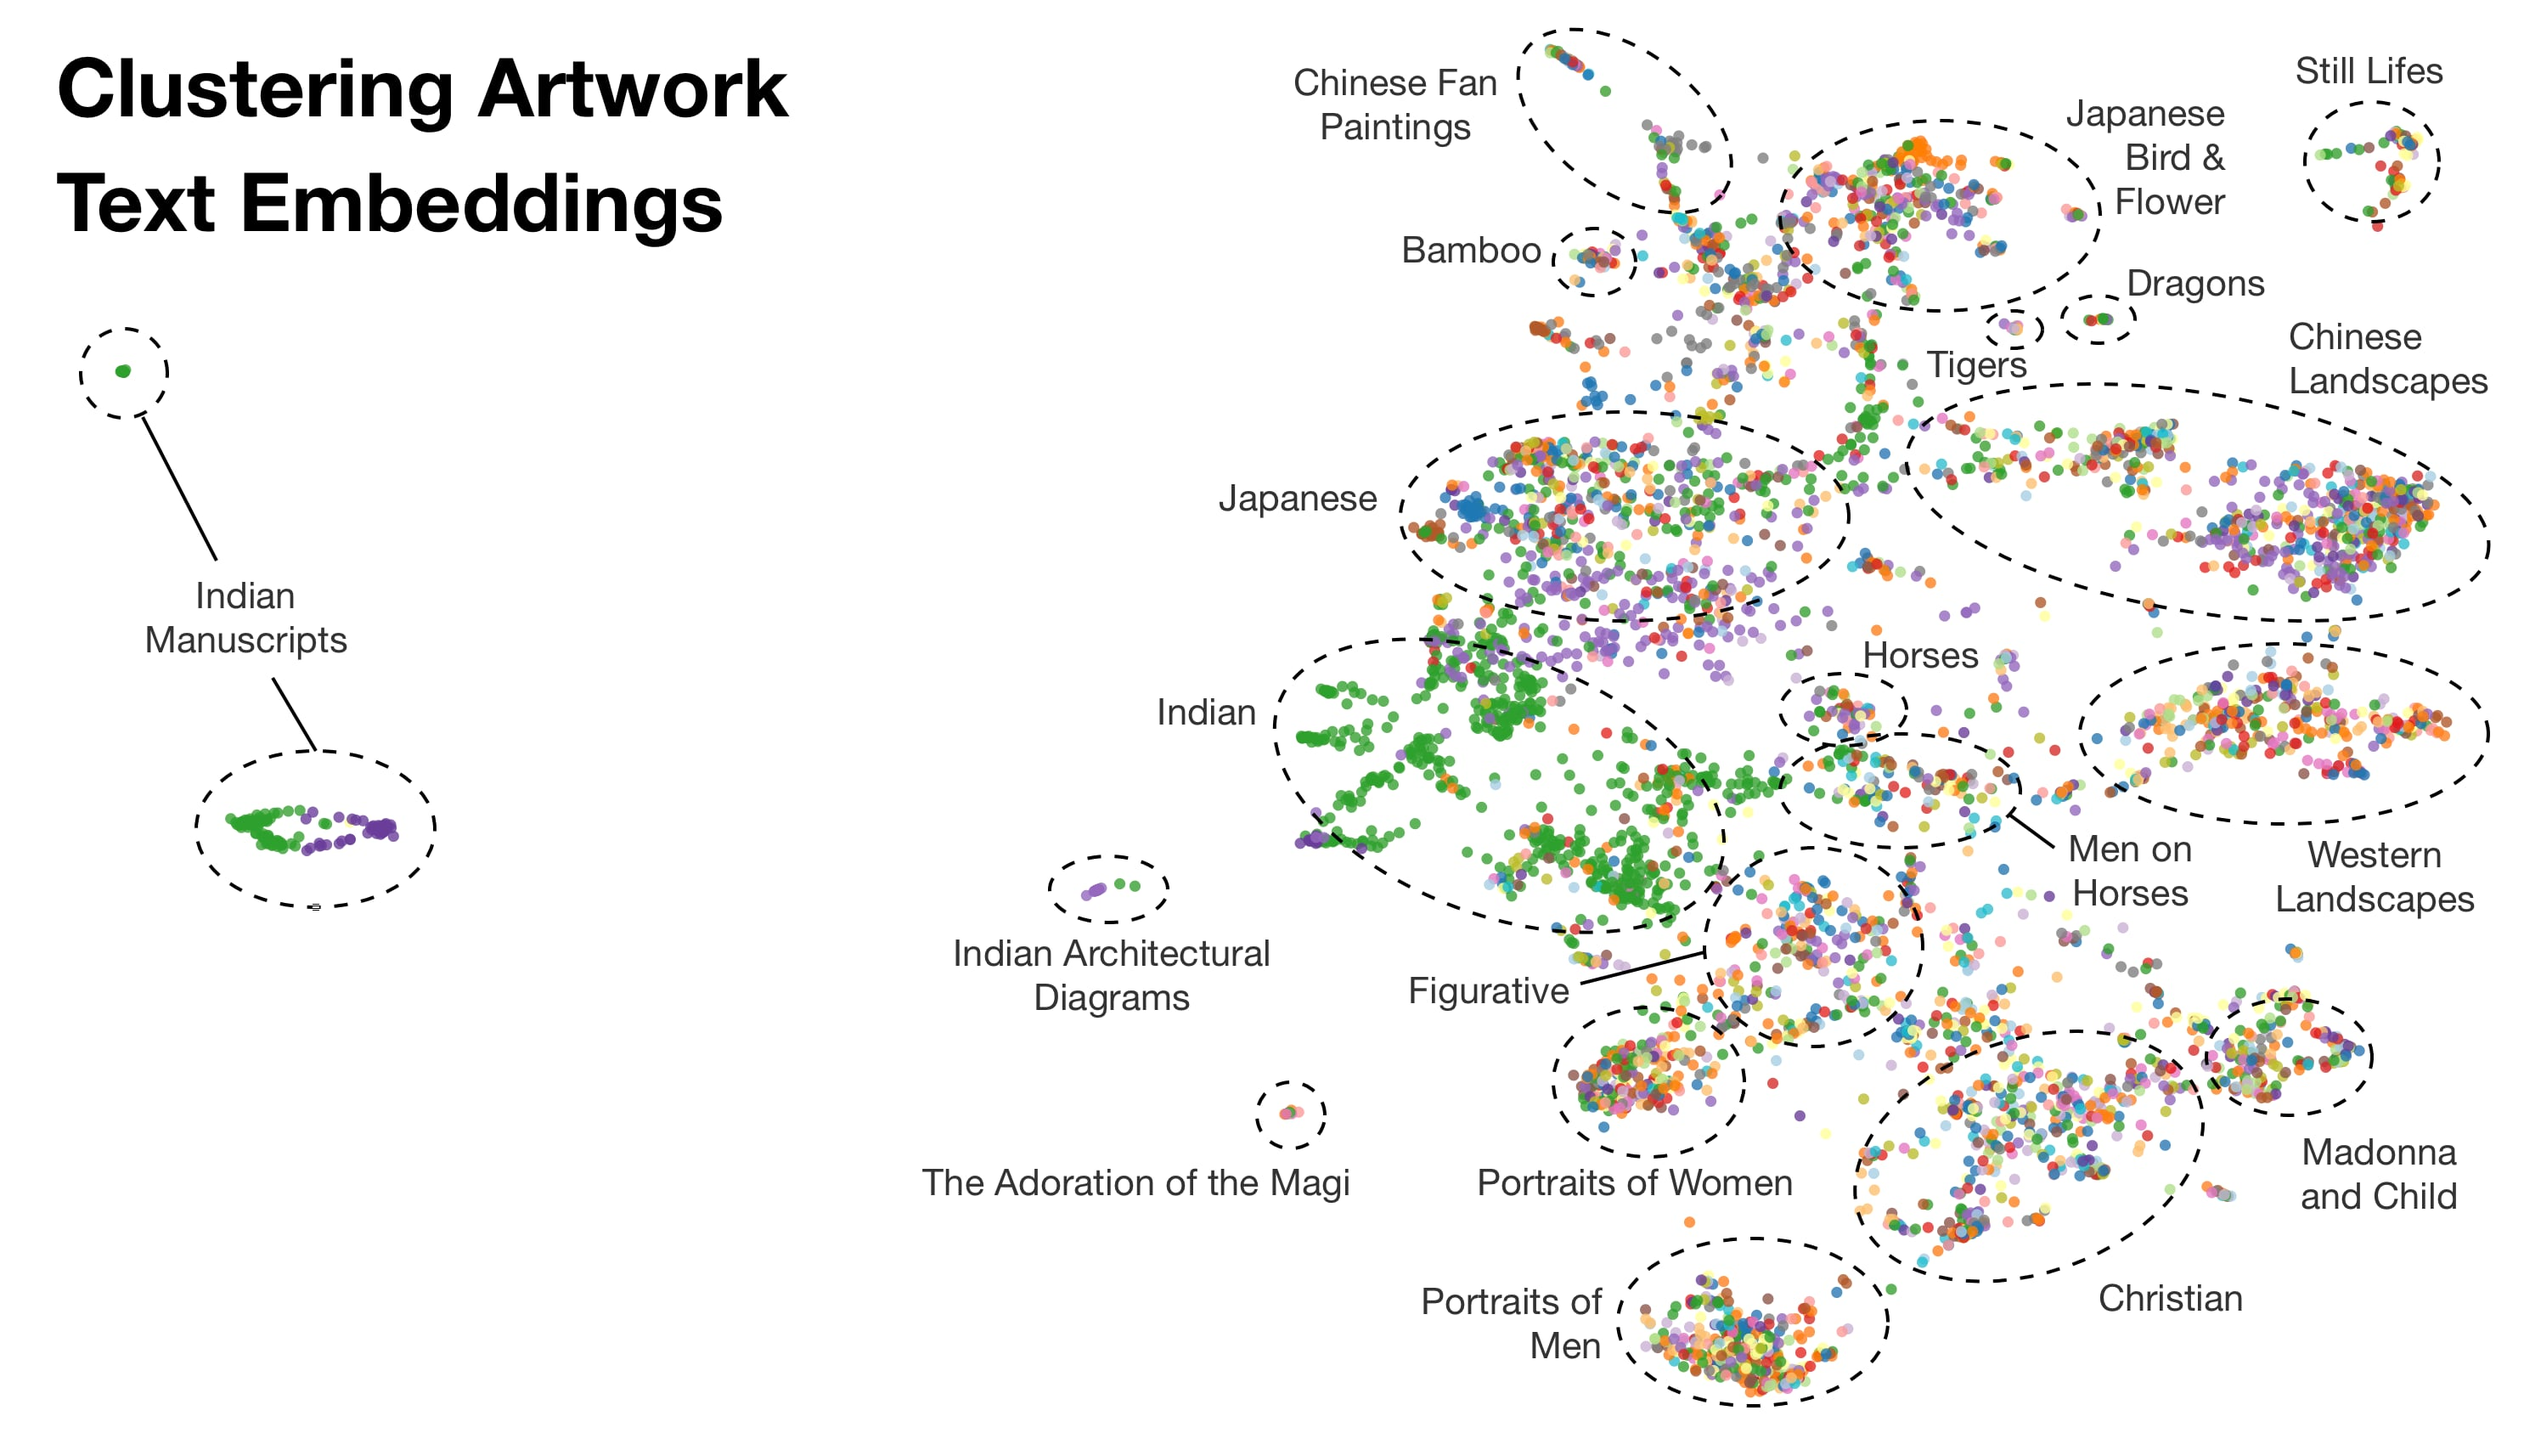
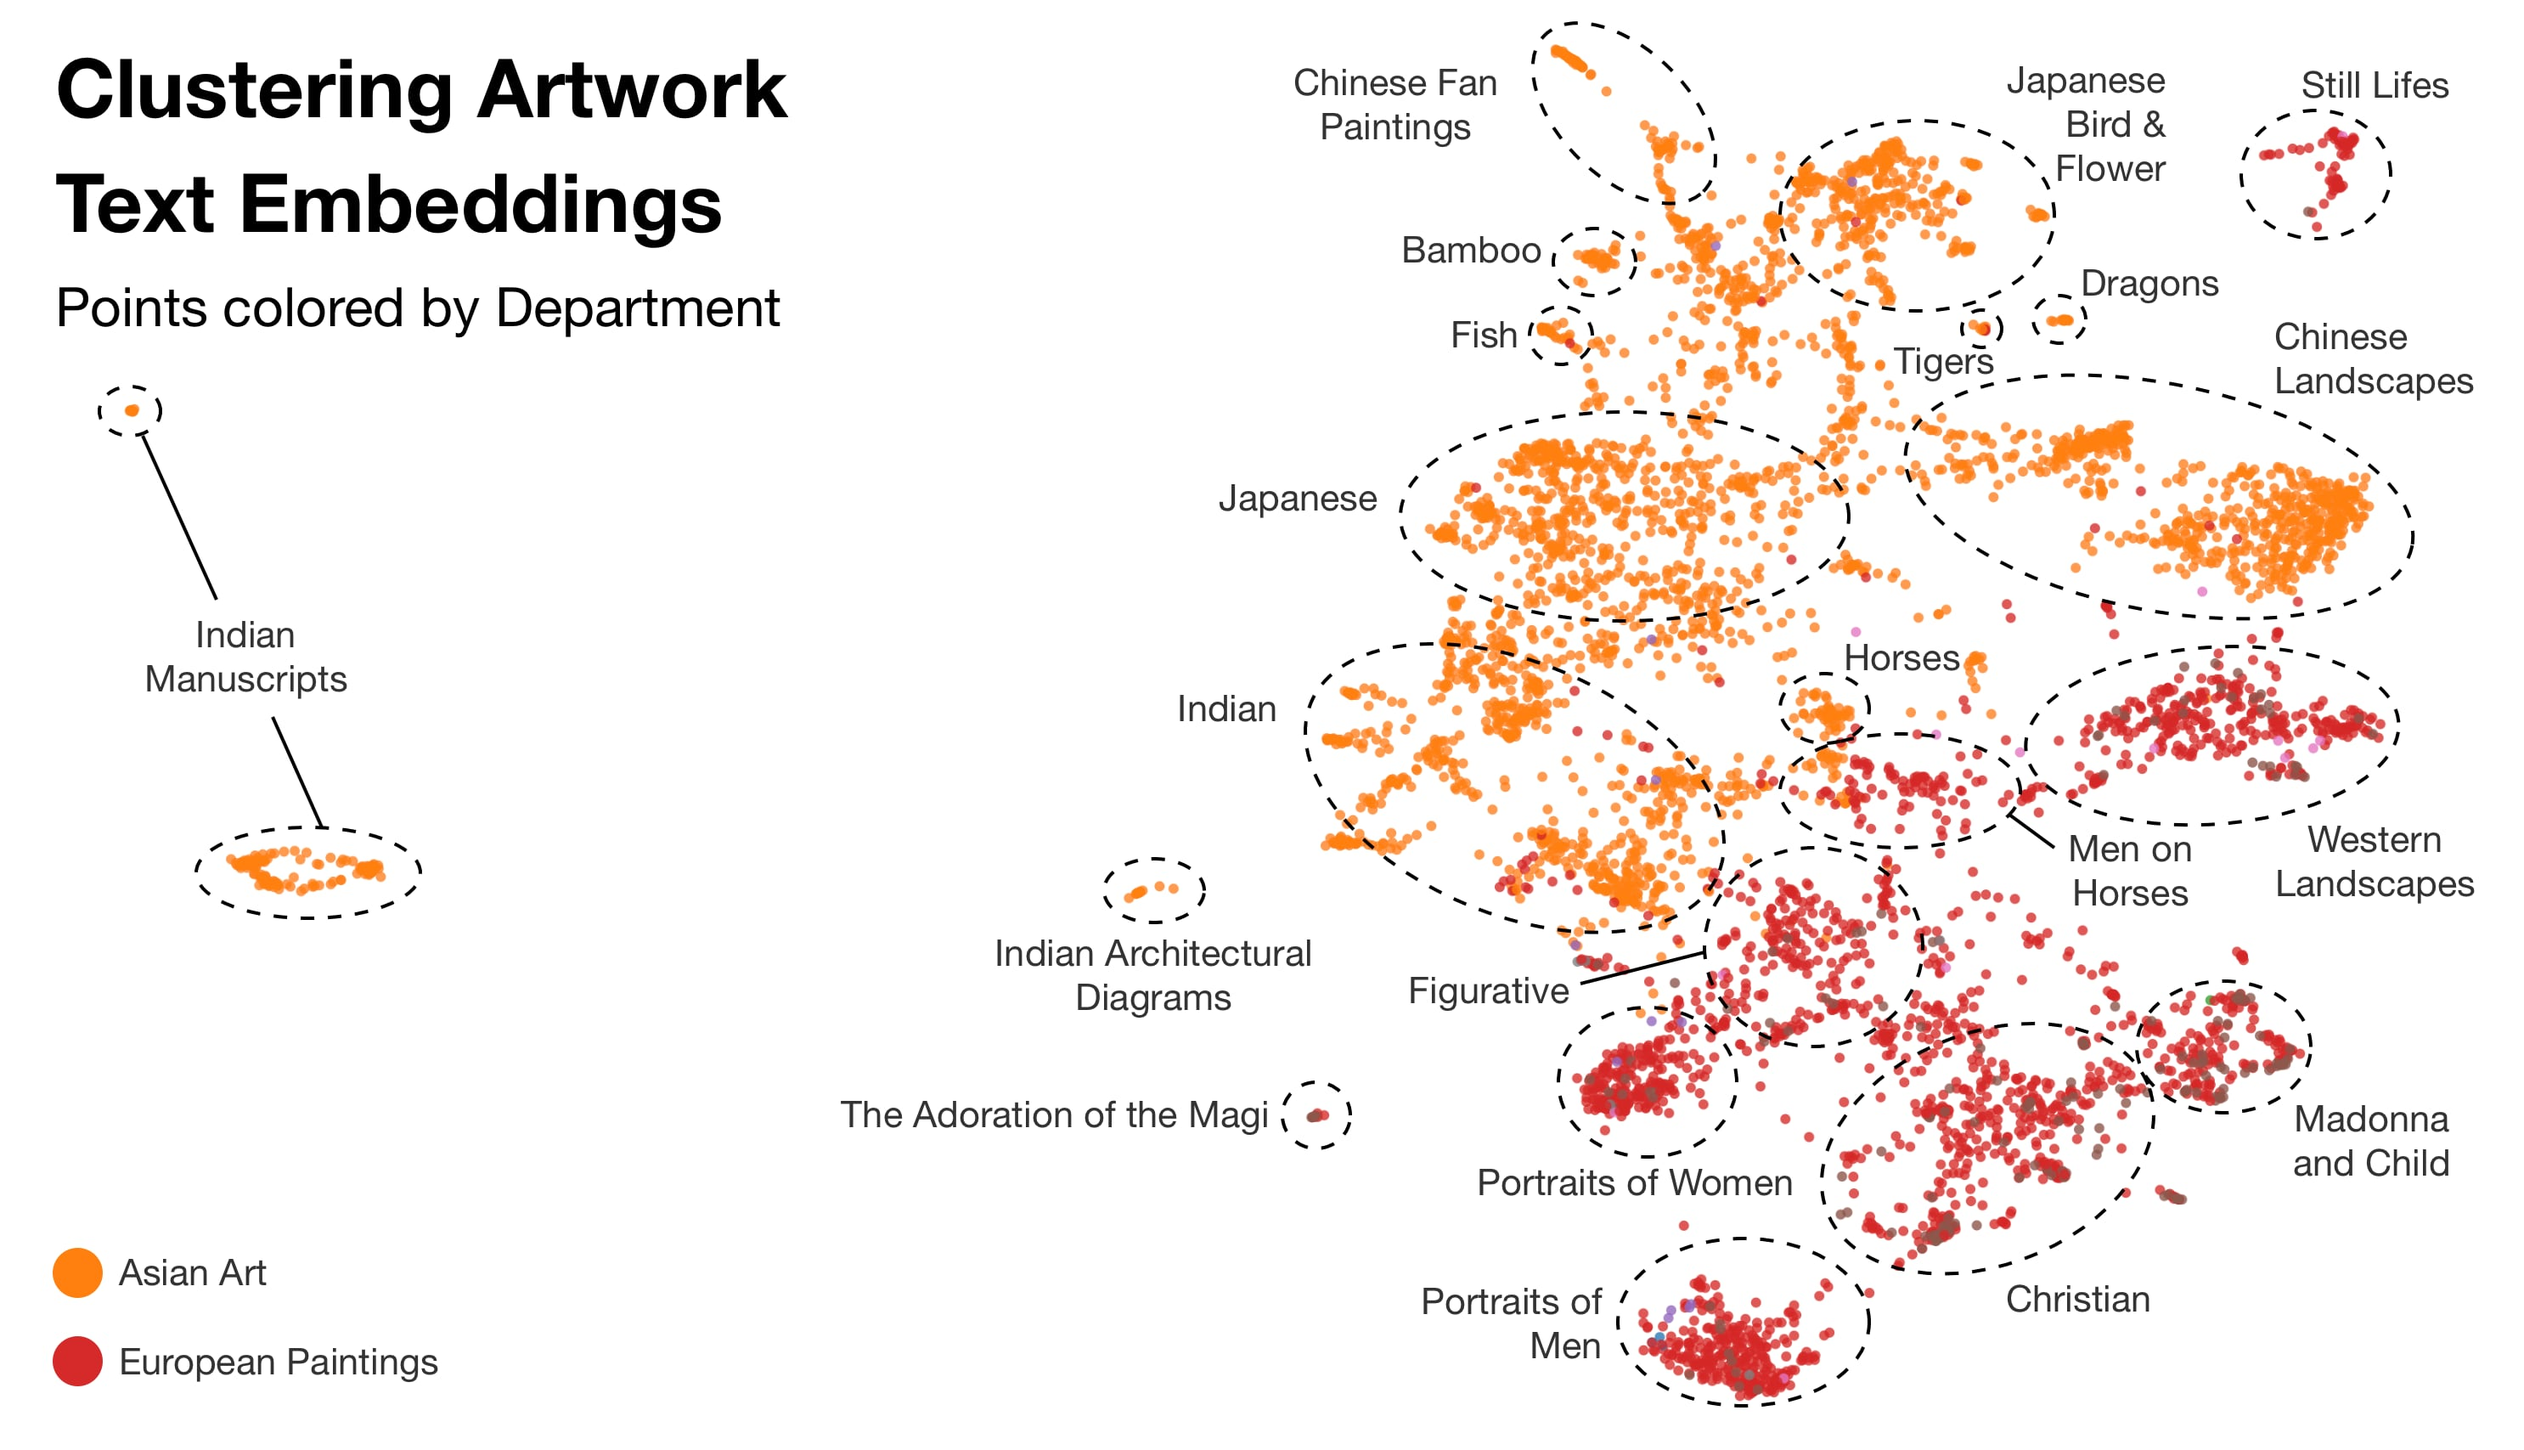
viz department coloring, update docs

diff --git a/app/api/projections/es/route.ts b/app/api/projections/es/route.ts
@@ -10,6 +10,7 @@ interface ElasticsearchArtwork {
   medium?: string;
   tags?: string[];
   image?: string | { url?: string; thumbnailUrl?: string };
+  department?: string;
   objectName?: string;
   classification?: string;
   culture?: string;
@@ -48,6 +49,7 @@ export async function GET(request: Request) {
         'medium',
         'tags',
         'image',
+        'department',
         'objectName',
         'classification',
         'culture',
@@ -85,6 +87,7 @@ export async function GET(request: Request) {
           image: source.image || '',  // Pass through the entire image object/string
           alt_text: source.visual_description?.alt_text || '',
           // Additional metadata fields
+          department: source.department || '',
           objectName: source.objectName || '',
           classification: source.classification || '',
           culture: source.culture || '',

diff --git a/app/types.ts b/app/types.ts
@@ -260,6 +260,7 @@ export interface ProjectionPoint {
     artist: string;
     date: string;
     medium: string;
+    department?: string;
     tags: string[];
     image: ArtworkImage | string;  // Use consistent image structure
     alt_text: string;
@@ -271,5 +272,5 @@ export interface ProjectionPoint {
 
 export type ProjectionType = 'standard_2d' | 'tight_2d' | 'loose_2d' | 'standard_3d';
 export type EmbeddingType = 'jina_v3' | 'siglip2';
-export type ColorByOption = 'artist' | 'period' | 'tags';
+export type ColorByOption = 'artist' | 'period' | 'tags' | 'department';
 export type DisplayMode = 'points' | 'thumbnails';

diff --git a/app/layout.tsx b/app/layout.tsx
@@ -1,5 +1,6 @@
 import type { Metadata } from "next";
 import { Geist, Geist_Mono } from "next/font/google";
+import { Analytics } from "@vercel/analytics/next";
 import "./globals.css";
 import Navbar from "./components/Navbar";
 
@@ -32,6 +33,7 @@ export default function RootLayout({
         <main className="bg-background">
           {children}
         </main>
+        <Analytics />
       </body>
     </html>
   );

diff --git a/app/visualize/components/VisualizationControls.tsx b/app/visualize/components/VisualizationControls.tsx
@@ -99,6 +99,7 @@ export function VisualizationControls({
               <SelectItem value="artist">Artist</SelectItem>
               <SelectItem value="period">Period</SelectItem>
               <SelectItem value="tags">Tags</SelectItem>
+              <SelectItem value="department">Department</SelectItem>
             </SelectContent>
           </Select>
         </div>

diff --git a/app/visualize/components/EmbeddingVisualization.tsx b/app/visualize/components/EmbeddingVisualization.tsx
@@ -337,6 +337,8 @@ export function EmbeddingVisualization({
         return extractPeriod(metadata.date || '');
       case 'tags':
         return metadata.tags[0] || 'Untagged';
+      case 'department':
+        return metadata.department || 'Unknown';
       default:
         return '';
     }

diff --git a/README.md b/README.md
@@ -263,7 +263,11 @@ The `/visualize` page lets you explore how artworks cluster in the embedding spa
 
 The map visualizes patterns in the text embeddings, grouping artworks into clusters based on shared themes, styles, and subjects. For example, "Portraits of Men" and "Portraits of Women" are clustered near each other, as are "Horses" and "Men on Horses". Distinct traditions like "Indian Manuscripts" form their own separate regions.  Some clusters represent very specific subjects, like bamboo, dragons, and tigers. This 2D projection is just a simplified view, showing only a fraction of the more complex relationships that exist in the higher-dimensional embeddings space.
 
-![Embeddings Clusters](docs/images/EmbeddingsClusters.jpg)
+![Text Embeddings Clusters](docs/images/EmbeddingsClusters.jpg)
+
+![Image Embeddings Clusters](docs/images/ImageEmbeddingsClusters.jpg)
+
+![Horses Clusters](docs/images/HorsesClusters.jpg)
 
 ### Example Journeys
 
